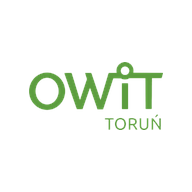
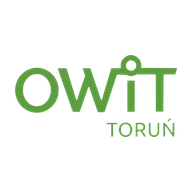
Add: tapety do pobrania w strefie relaksu + poprawka ikon dla Google
- Nowy kafelek "Tapety" i sekcja w gry.html (tapeta PC i telefon do pobrania)
- Zaktualizowane ikony (192, 512, 64px) — logo wypełnia kwadrat, mniej białej przestrzeni
- schema.org logo zmienione na kwadratowy icon-512.png

Changed region(s): [[0.0625, 0.2812, 0.9375, 0.7188]]

diff --git a/gry.html b/gry.html
@@ -925,7 +925,7 @@
 
             <!-- Hero usunięte -->
             <!-- Mode selection -->
-            <div id="mode-selection" class="grid grid-cols-1 sm:grid-cols-2 xl:grid-cols-4 gap-4 mb-8">
+            <div id="mode-selection" class="grid grid-cols-1 sm:grid-cols-2 xl:grid-cols-5 gap-4 mb-8">
                 <!-- Card 1: Gry -->
                 <button onclick="showSection('gry')"
                     class="bg-white rounded-3xl border border-gray-100 shadow-sm p-5 hover:border-green-400 hover:shadow-md hover:-translate-y-1 transition-all text-center group focus:outline-none focus:ring-4 focus:ring-green-400">
@@ -953,7 +953,16 @@
                     <span class="text-lg font-bold text-green-800 mb-1 block">Wykreślanki i krzyżówki</span>
                     <p class="text-sm text-gray-600">Wydrukuj i znajdź ukryte słowa lub rozwiąż krzyżówkę.</p>
                 </button>
-                <!-- Card 4: Oddech -->
+                <!-- Card 4: Tapety -->
+                <button onclick="showSection('tapety')"
+                    class="bg-white rounded-3xl border border-gray-100 shadow-sm p-5 hover:border-green-400 hover:shadow-md hover:-translate-y-1 transition-all text-center group focus:outline-none focus:ring-4 focus:ring-green-400">
+                    <img src="images/ui/wspiernik-oparty.png" alt="" aria-hidden="true"
+                        class="mx-auto h-36 object-contain mb-3 group-hover:scale-105 transition-transform"
+                        onerror="this.src='images/ui/wspiernik.png';">
+                    <span class="text-lg font-bold text-green-800 mb-1 block">Tapety</span>
+                    <p class="text-sm text-gray-600">Pobierz tapety ze Wspiernikiem na komputer lub telefon.</p>
+                </button>
+                <!-- Card 5: Oddech -->
                 <button onclick="showSection('oddech')"
                     class="bg-white rounded-3xl border border-gray-100 shadow-sm p-5 hover:border-green-400 hover:shadow-md hover:-translate-y-1 transition-all text-center group focus:outline-none focus:ring-4 focus:ring-green-400">
                     <img src="images/ui/wspiernik-oddech.png" alt="" aria-hidden="true"
@@ -1501,6 +1510,41 @@
                     </div>
                 </div>
             </div> <!-- zamyka section-kolorowanki -->
+
+            <div id="section-tapety" class="hidden">
+                <button onclick="showSection('selection')"
+                    class="mb-2 inline-flex items-center gap-1 text-sm font-semibold text-gray-500 hover:text-green-700 transition-colors focus:outline-none focus:ring-2 focus:ring-green-400 rounded px-2 py-1 mt-4"><i
+                        data-lucide="arrow-left" class="w-4 h-4"></i> Wróć do wyboru</button>
+                <div class="bg-white rounded-3xl border border-gray-100 shadow-sm p-6 lg:p-10 mb-8 mt-2">
+                    <div class="flex flex-col md:flex-row items-center gap-8">
+                        <div class="flex-shrink-0 w-full md:w-1/3 flex justify-center">
+                            <img src="images/ui/wspiernik-oparty.png" alt="Wspiernik mówi: Ustaw mnie sobie jako tapetę!" class="w-full object-contain" onerror="this.src='images/ui/wspiernik.png';">
+                        </div>
+                        <div class="flex-1 w-full">
+                            <div class="text-center md:text-left mb-8">
+                                <h2 class="text-2xl md:text-3xl font-bold text-green-800 mb-2 flex items-center justify-center md:justify-start gap-3">
+                                    <i data-lucide="monitor" class="w-8 h-8 text-green-600"></i> Tapety ze Wspiernikiem
+                                </h2>
+                                <p class="text-gray-600">Pobierz tapetę i ustaw Wspiernika jako tło ekranu na komputerze lub telefonie!</p>
+                            </div>
+                            <div class="grid grid-cols-1 sm:grid-cols-2 gap-6">
+                                <a href="tapety/tapeta-pc1.jpg" download
+                                    class="inline-flex flex-col items-center gap-3 p-4 rounded-2xl border-2 border-gray-100 hover:border-green-400 hover:bg-green-50 transition-all text-gray-700 hover:text-green-700"
+                                    aria-label="Pobierz tapetę na komputer">
+                                    <img src="tapety/tapeta-pc1.jpg" alt="Podgląd tapety na komputer" class="w-full rounded-xl object-cover aspect-video border border-gray-100">
+                                    <span class="font-bold text-sm text-center flex items-center gap-2"><i data-lucide="monitor" class="w-4 h-4"></i> Tapeta na komputer</span>
+                                </a>
+                                <a href="tapety/tapeta-tel1.jpg" download
+                                    class="inline-flex flex-col items-center gap-3 p-4 rounded-2xl border-2 border-gray-100 hover:border-green-400 hover:bg-green-50 transition-all text-gray-700 hover:text-green-700"
+                                    aria-label="Pobierz tapetę na telefon">
+                                    <img src="tapety/tapeta-tel1.jpg" alt="Podgląd tapety na telefon" class="w-full rounded-xl object-cover aspect-[9/16] max-h-80 border border-gray-100">
+                                    <span class="font-bold text-sm text-center flex items-center gap-2"><i data-lucide="smartphone" class="w-4 h-4"></i> Tapeta na telefon</span>
+                                </a>
+                            </div>
+                        </div>
+                    </div>
+                </div>
+            </div> <!-- zamyka section-tapety -->
 
             <div id="section-wykreslanki" class="hidden">
                 <button onclick="showSection('selection')"
@@ -3247,10 +3291,11 @@
             const modeSelection = document.getElementById('mode-selection');
             const sectionGry = document.getElementById('section-gry');
             const sectionKolorowanki = document.getElementById('section-kolorowanki');
+            const sectionTapety = document.getElementById('section-tapety');
             const sectionWykreslanki = document.getElementById('section-wykreslanki');
             const sectionOddech = document.getElementById('section-oddech');
 
-            const all = [sectionGry, sectionKolorowanki, sectionWykreslanki, sectionOddech];
+            const all = [sectionGry, sectionKolorowanki, sectionTapety, sectionWykreslanki, sectionOddech];
             if (sec === 'selection') {
                 modeSelection.classList.remove('hidden');
                 modeSelection.removeAttribute('aria-hidden');
@@ -3259,7 +3304,7 @@
                 modeSelection.classList.add('hidden');
                 modeSelection.setAttribute('aria-hidden', 'true');
                 all.forEach(s => { s.classList.add('hidden'); s.setAttribute('aria-hidden', 'true'); });
-                const map = { gry: sectionGry, kolorowanki: sectionKolorowanki, wykreslanki: sectionWykreslanki, oddech: sectionOddech };
+                const map = { gry: sectionGry, kolorowanki: sectionKolorowanki, tapety: sectionTapety, wykreslanki: sectionWykreslanki, oddech: sectionOddech };
                 if (map[sec]) { map[sec].classList.remove('hidden'); map[sec].removeAttribute('aria-hidden'); }
                 if (window.lucide) lucide.createIcons({ attrs: { 'aria-hidden': 'true' } });
             }

diff --git a/index.html b/index.html
@@ -38,7 +38,7 @@
       "name": "OWiT Toruń – Ośrodek Wsparcia i Testów",
       "alternateName": "OWiT Toruń",
       "url": "https://owit-torun.pl",
-      "logo": "https://owit-torun.pl/images/ui/logo owit.png",
+      "logo": "https://owit-torun.pl/images/ui/icon-512.png",
       "image": "https://owit-torun.pl/images/ui/dofinansowanie.png",
       "telephone": "+48697677027",
       "email": "owit.torun@gmail.com",
